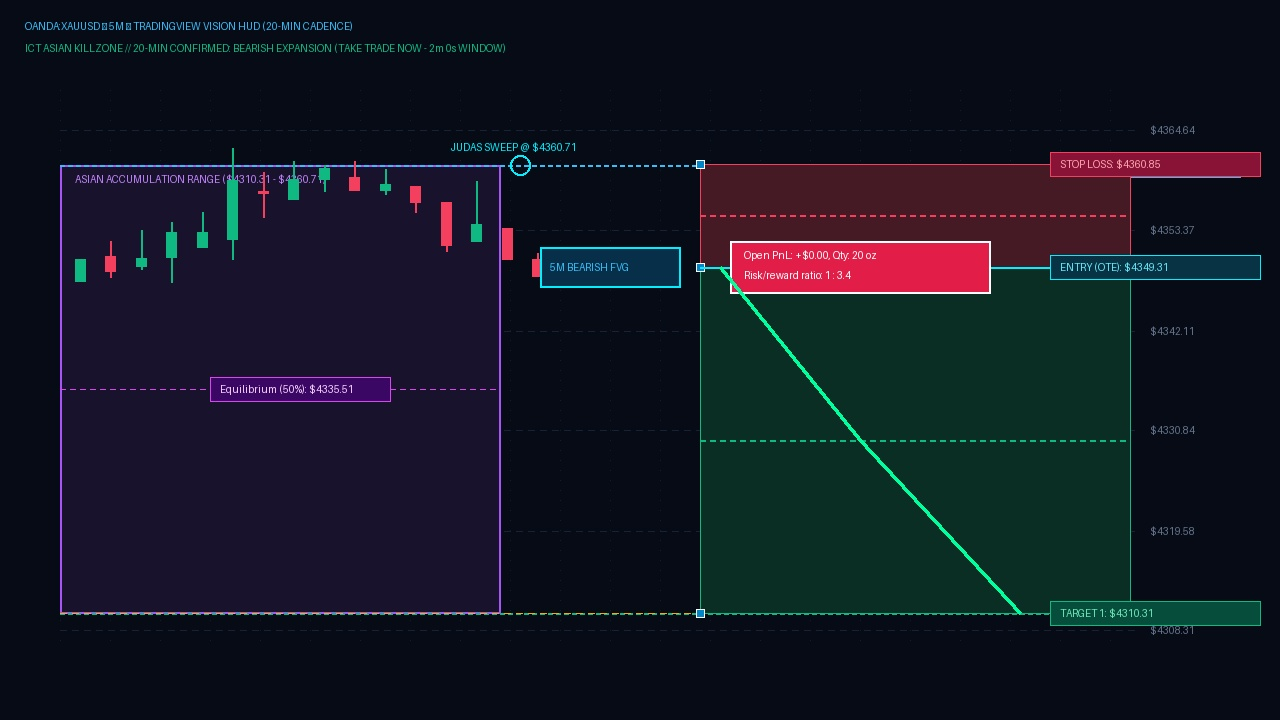
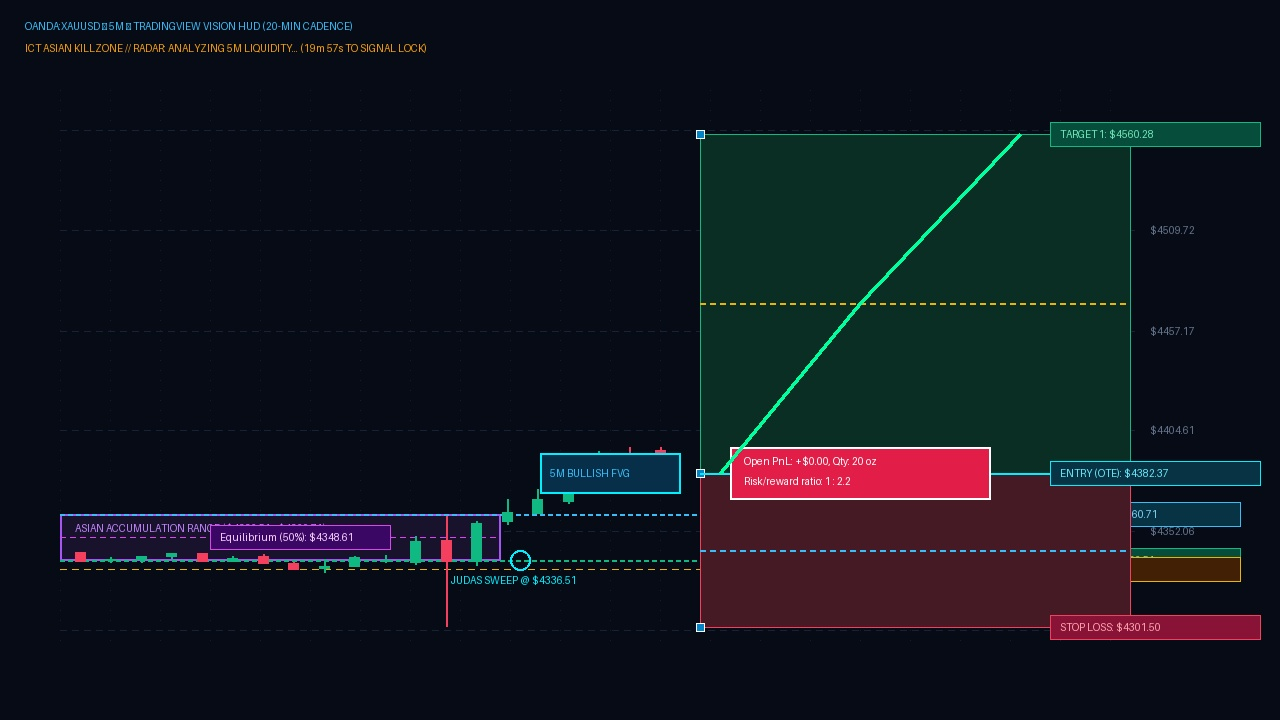
feat(bot-cadence): Autonomous 20-min analyzing & 2-min execution window state machine with web controller & voice alerts

diff --git a/bots/xauusd_tradingview_live_bot.py b/bots/xauusd_tradingview_live_bot.py
@@ -20,6 +20,14 @@
 
 import sys
 import os
+
+# Force UTF-8 encoding on Windows to prevent charmap / cp1252 UnicodeEncodeError
+if sys.platform == "win32":
+    if hasattr(sys.stdout, "reconfigure"):
+        sys.stdout.reconfigure(encoding="utf-8", errors="replace")
+    if hasattr(sys.stderr, "reconfigure"):
+        sys.stderr.reconfigure(encoding="utf-8", errors="replace")
+
 import time
 import json
 import base64
@@ -30,11 +38,18 @@ import subprocess
 import webbrowser
 from datetime import datetime, timezone
 
-# Windows API for window detection (Built-in standard library)
+# Windows API for window detection and ANSI console colors (Built-in standard library)
 if sys.platform == "win32":
     import ctypes
     from ctypes import wintypes
     user32 = ctypes.windll.user32
+    try:
+        kernel32 = ctypes.windll.kernel32
+        # Enable ENABLE_VIRTUAL_TERMINAL_PROCESSING (0x0004)
+        kernel32.SetConsoleMode(kernel32.GetStdHandle(-11), 7)
+    except Exception:
+        pass
+    os.system("")
 else:
     user32 = None
 
@@ -138,7 +153,10 @@ def find_tradingview_window():
                 user32.GetWindowTextW(hwnd, buff, length + 1)
                 title = buff.value
                 t_lower = title.lower()
-                # Check for TradingView or XAUUSD or Gold
+                # Ignore self console, CMD, terminal, and python windows
+                if any(k in t_lower for k in ["glitch matrix", "cmd.exe", "powershell", "windows terminal", "xauusd live sniper"]):
+                    return True
+                # Check for genuine TradingView or Gold browser tabs or desktop app
                 if "tradingview" in t_lower or "xauusd" in t_lower or "gold" in t_lower:
                     found["title"] = title
                     found["hwnd"] = hwnd
@@ -234,6 +252,15 @@ def generate_authentic_chart_bytes(curr, asia_high, asia_low, pdl, entry, sl, tp
         y = 630 - int(norm * 500)
         return max(90, min(640, y))
 
+    def draw_box(x0, y0, x1, y1, **kwargs):
+        x_min, x_max = min(x0, x1), max(x0, x1)
+        y_min, y_max = min(y0, y1), max(y0, y1)
+        if y_min == y_max:
+            y_max += 1
+        if x_min == x_max:
+            x_max += 1
+        draw.rectangle([x_min, y_min, x_max, y_max], **kwargs)
+
     # 1. Subtle TradingView Dark Grid (Dotted lines) & Price scale on right
     for x in range(60, 1140, 50):
         for y in range(90, 650, 10):
@@ -259,19 +286,19 @@ def generate_authentic_chart_bytes(curr, asia_high, asia_low, pdl, entry, sl, tp
     al_y = to_y(asia_low)
     box_top = min(ah_y, al_y)
     box_bot = max(ah_y, al_y)
-    draw.rectangle([60, box_top, 500, box_bot], outline="#a855f7", fill="#18122c", width=2)
+    draw_box(60, box_top, 500, box_bot, outline="#a855f7", fill="#18122c", width=2)
     draw.text((75, box_top + 8), f"ASIAN ACCUMULATION RANGE (${asia_low:.2f} - ${asia_high:.2f})", fill="#c084fc")
 
     # Dotted Blue Asian High (BSL)
     for x in range(60, 1140, 8):
         draw.line([(x, ah_y), (min(x + 4, 1140), ah_y)], fill="#38bdf8", width=2)
-    draw.rectangle([1050, ah_y - 12, 1240, ah_y + 12], fill="#083344", outline="#38bdf8")
+    draw_box(1050, ah_y - 12, 1240, ah_y + 12, fill="#083344", outline="#38bdf8")
     draw.text((1060, ah_y - 6), f"ASIA HIGH: ${asia_high:.2f}", fill="#7dd3fc")
 
     # Dotted Green Asian Low (SSL)
     for x in range(60, 1140, 8):
         draw.line([(x, al_y), (min(x + 4, 1140), al_y)], fill="#10b981", width=2)
-    draw.rectangle([1050, al_y - 12, 1240, al_y + 12], fill="#064e3b", outline="#10b981")
+    draw_box(1050, al_y - 12, 1240, al_y + 12, fill="#064e3b", outline="#10b981")
     draw.text((1060, al_y - 6), f"ASIA LOW: ${asia_low:.2f}", fill="#6ee7b7")
 
     # Dotted Yellow Previous Day Low (PDL)
@@ -280,7 +307,7 @@ def generate_authentic_chart_bytes(curr, asia_high, asia_low, pdl, entry, sl, tp
         for x in range(60, 1140, 12):
             draw.line([(x, pdl_y), (min(x + 6, 1140), pdl_y)], fill="#eab308", width=1)
         draw.text((800, pdl_y - 14), "PDL", fill="#fde047")
-        draw.rectangle([1050, pdl_y - 12, 1240, pdl_y + 12], fill="#422006", outline="#eab308")
+        draw_box(1050, pdl_y - 12, 1240, pdl_y + 12, fill="#422006", outline="#eab308")
         draw.text((1060, pdl_y - 6), f"PDL: ${pdl:.2f}", fill="#fef08a")
 
     # Purple Equilibrium Box (50% of Asian Range)
@@ -288,7 +315,7 @@ def generate_authentic_chart_bytes(curr, asia_high, asia_low, pdl, entry, sl, tp
     eq_y = to_y(eq_p)
     for x in range(60, 500, 10):
         draw.line([(x, eq_y), (min(x + 5, 500), eq_y)], fill="#d946ef", width=1)
-    draw.rectangle([210, eq_y - 12, 390, eq_y + 12], outline="#d946ef", fill="#3b0764", width=1)
+    draw_box(210, eq_y - 12, 390, eq_y + 12, outline="#d946ef", fill="#3b0764", width=1)
     draw.text((220, eq_y - 6), f"Equilibrium (50%): ${eq_p:.2f}", fill="#f5d0fe")
 
     # 4. Candlesticks (From real 5M market candles)
@@ -307,11 +334,7 @@ def generate_authentic_chart_bytes(curr, asia_high, asia_low, pdl, entry, sl, tp
             is_up = c.get("close", curr) >= c.get("open", curr)
             col = "#10b981" if is_up else "#f43f5e"
             draw.line([(cx, ch), (cx, cl)], fill=col, width=2)
-            b_top = min(co, cc)
-            b_bot = max(co, cc)
-            if b_bot == b_top:
-                b_bot += 2
-            draw.rectangle([cx - 5, b_top, cx + 5, b_bot], fill=col)
+            draw_box(cx - 5, co, cx + 5, cc, fill=col)
 
     # Judas Swing Liquidity Sweep Marker
     sweep_y = al_y if direction == "BULLISH" else ah_y
@@ -320,7 +343,7 @@ def generate_authentic_chart_bytes(curr, asia_high, asia_low, pdl, entry, sl, tp
 
     # 5M Fair Value Gap (FVG) Box
     fvg_y = to_y(entry)
-    draw.rectangle([540, fvg_y - 20, 680, fvg_y + 20], outline="#00f0ff", fill="#082f49", width=2)
+    draw_box(540, fvg_y - 20, 680, fvg_y + 20, outline="#00f0ff", fill="#082f49", width=2)
     draw.text((550, fvg_y - 6), f"5M {direction} FVG", fill="#38bdf8")
 
     # 5. ─── EXACT TRADINGVIEW POSITION TOOL (Long or Short) ───
@@ -332,16 +355,16 @@ def generate_authentic_chart_bytes(curr, asia_high, asia_low, pdl, entry, sl, tp
 
     if direction == "BULLISH":
         # Profit zone on top, Risk zone on bottom
-        draw.rectangle([tool_x1, tp_y, tool_x2, entry_y], fill="#0a2e23", outline="#10b981", width=1)
-        draw.rectangle([tool_x1, entry_y, tool_x2, sl_y], fill="#451a24", outline="#f43f5e", width=1)
+        draw_box(tool_x1, tp_y, tool_x2, entry_y, fill="#0a2e23", outline="#10b981", width=1)
+        draw_box(tool_x1, entry_y, tool_x2, sl_y, fill="#451a24", outline="#f43f5e", width=1)
         # Reference dashed lines inside boxes
         for x in range(tool_x1, tool_x2, 10):
             draw.line([(x, (entry_y + sl_y) // 2), (min(x + 5, tool_x2), (entry_y + sl_y) // 2)], fill="#38bdf8", width=2)
             draw.line([(x, (entry_y + tp_y) // 2), (min(x + 5, tool_x2), (entry_y + tp_y) // 2)], fill="#eab308", width=2)
     else:  # BEARISH
         # Risk zone on top, Profit zone on bottom
-        draw.rectangle([tool_x1, sl_y, tool_x2, entry_y], fill="#451a24", outline="#f43f5e", width=1)
-        draw.rectangle([tool_x1, entry_y, tool_x2, tp_y], fill="#0a2e23", outline="#10b981", width=1)
+        draw_box(tool_x1, sl_y, tool_x2, entry_y, fill="#451a24", outline="#f43f5e", width=1)
+        draw_box(tool_x1, entry_y, tool_x2, tp_y, fill="#0a2e23", outline="#10b981", width=1)
         # Reference dashed lines inside boxes
         for x in range(tool_x1, tool_x2, 10):
             draw.line([(x, (entry_y + sl_y) // 2), (min(x + 5, tool_x2), (entry_y + sl_y) // 2)], fill="#f43f5e", width=2)
@@ -354,7 +377,7 @@ def generate_authentic_chart_bytes(curr, asia_high, asia_low, pdl, entry, sl, tp
         (tool_x1, tp_y), (tool_x2, tp_y)
     ]
     for hx, hy in handles:
-        draw.rectangle([hx - 4, hy - 4, hx + 4, hy + 4], fill="#0284c7", outline="#ffffff", width=1)
+        draw_box(hx - 4, hy - 4, hx + 4, hy + 4, fill="#0284c7", outline="#ffffff", width=1)
 
     # Entry Dividing Line
     draw.line([(tool_x1, entry_y), (tool_x2, entry_y)], fill="#00f0ff", width=2)
@@ -364,18 +387,18 @@ def generate_authentic_chart_bytes(curr, asia_high, asia_low, pdl, entry, sl, tp
     pill_h = 52
     pill_x = tool_x1 + 30
     pill_y = entry_y - 26
-    draw.rectangle([pill_x, pill_y, pill_x + pill_w, pill_y + pill_h], fill="#e11d48", outline="#ffffff", width=2)
+    draw_box(pill_x, pill_y, pill_x + pill_w, pill_y + pill_h, fill="#e11d48", outline="#ffffff", width=2)
     draw.text((pill_x + 14, pill_y + 8), "Open PnL: +$0.00, Qty: 20 oz", fill="#ffffff")
     draw.text((pill_x + 14, pill_y + 28), f"Risk/reward ratio: {risk_reward}", fill="#ffffff")
 
     # Right Axis Badges for Entry, SL, TP
-    draw.rectangle([1050, entry_y - 12, 1260, entry_y + 12], fill="#083344", outline="#00f0ff")
+    draw_box(1050, entry_y - 12, 1260, entry_y + 12, fill="#083344", outline="#00f0ff")
     draw.text((1060, entry_y - 6), f"ENTRY (OTE): ${entry:.2f}", fill="#67e8f9")
 
-    draw.rectangle([1050, sl_y - 12, 1260, sl_y + 12], fill="#881337", outline="#f43f5e")
+    draw_box(1050, sl_y - 12, 1260, sl_y + 12, fill="#881337", outline="#f43f5e")
     draw.text((1060, sl_y - 6), f"STOP LOSS: ${sl:.2f}", fill="#fda4af")
 
-    draw.rectangle([1050, tp_y - 12, 1260, tp_y + 12], fill="#064e3b", outline="#10b981")
+    draw_box(1050, tp_y - 12, 1260, tp_y + 12, fill="#064e3b", outline="#10b981")
     draw.text((1060, tp_y - 6), f"TARGET 1: ${tp1:.2f}", fill="#6ee7b7")
 
     # Trajectory Arrow
@@ -485,10 +508,10 @@ def analyze_and_sync():
 
     is_analyzing = (state["phase"] == "ANALYZING")
     direction = state["locked_direction"] if not is_analyzing else "ANALYZING"
-    entry = state["locked_entry"] if not is_analyzing else curr
-    sl = state["locked_sl"] if not is_analyzing else curr - 5.3
-    tp1 = state["locked_tp1"] if not is_analyzing else asia_high
-    tp2 = state["locked_tp2"] if not is_analyzing else asia_high + 5.5
+    entry = state["locked_entry"]
+    sl = state["locked_sl"]
+    tp1 = state["locked_tp1"]
+    tp2 = state["locked_tp2"]
     sweep_type = state["locked_sweep_type"]
 
     state["direction"] = direction
@@ -671,6 +694,7 @@ def main():
             print("\nShutting down XAUUSD Live Watcher.")
             break
         except Exception as err:
+            print(f"{RED}[Notice] {err}{RESET}")
             time.sleep(2)
 
 if __name__ == "__main__":

diff --git a/bots/ict_market_engine.py b/bots/ict_market_engine.py
@@ -20,6 +20,16 @@
 =============================================================================
 """
 
+import sys
+import os
+
+# Force UTF-8 encoding on Windows to prevent charmap / cp1252 UnicodeEncodeError
+if sys.platform == "win32":
+    if hasattr(sys.stdout, "reconfigure"):
+        sys.stdout.reconfigure(encoding="utf-8", errors="replace")
+    if hasattr(sys.stderr, "reconfigure"):
+        sys.stderr.reconfigure(encoding="utf-8", errors="replace")
+
 import urllib.request
 import urllib.error
 import json
